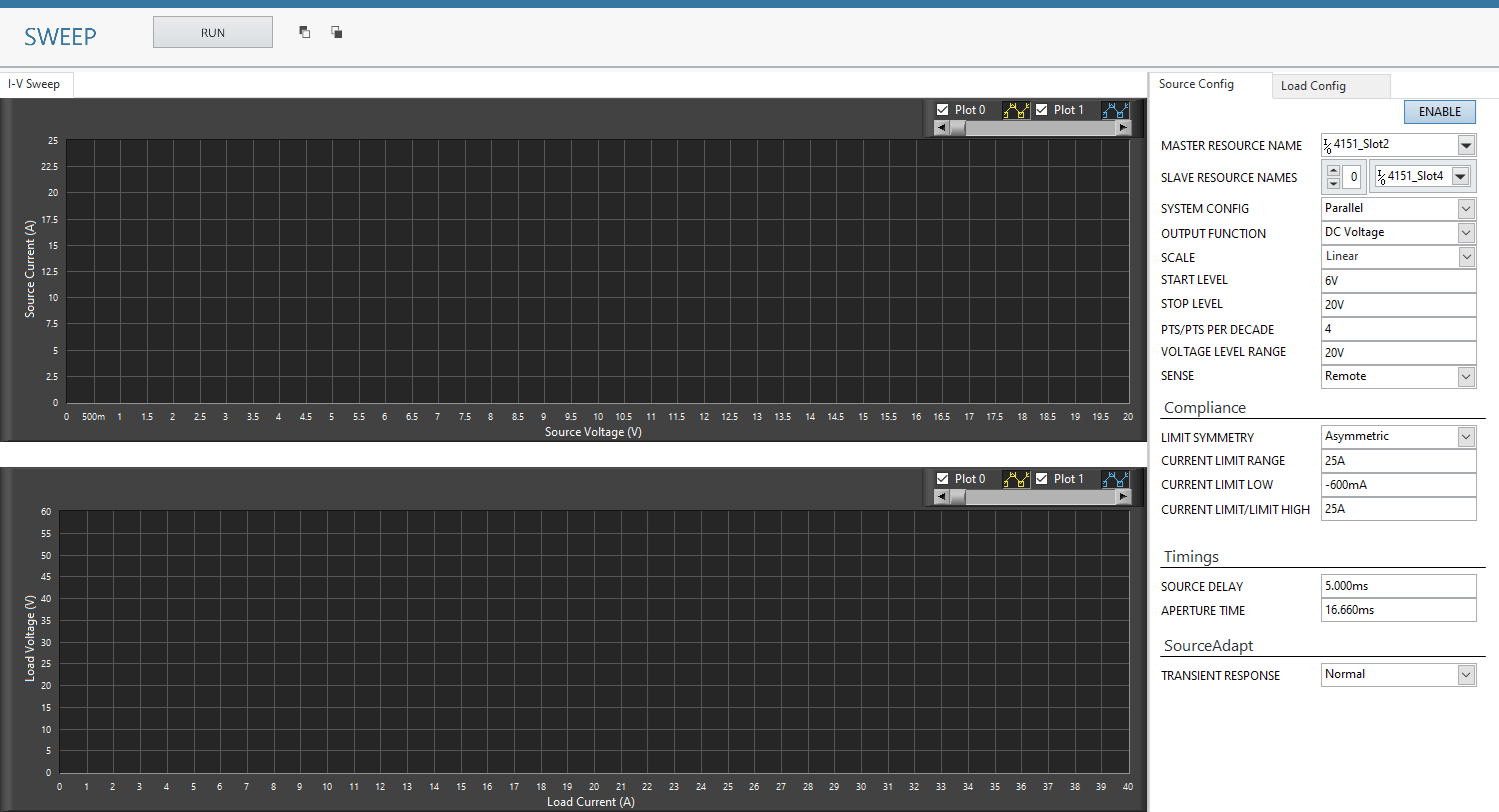
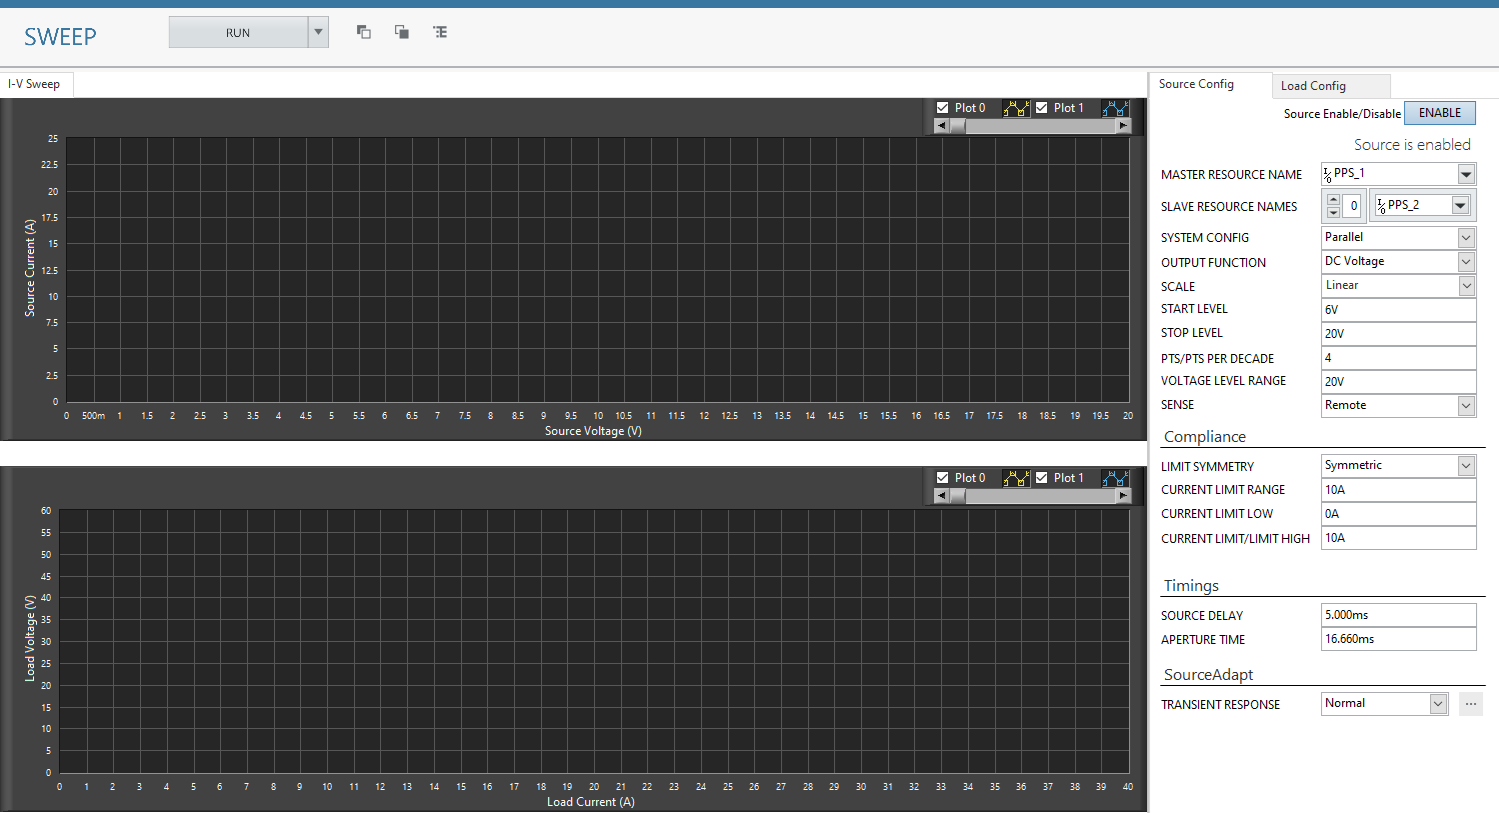
updating documentation
-Updating documentation of all channel ganging measurements as UI is changed
-Adding channel ganging help document which contains steps for custom transient dialog

diff --git a/docs/channel-ganging-help.md b/docs/channel-ganging-help.md
@@ -1,0 +1,30 @@
+# Getting Started
+
+## Workflow
+This workflow is applicable for all the Channel Ganging measurements.
+
+### Adding a measurement panel to InstrumentStudio
+
+1. Open InstrumentStudio
+   ![alt text](images/instr-studio-open-is.png)
+
+2. Click Manual Layout, and select required measurement under the collection (for e.g., 'Single Point' under PMIC - GANGING/STACKING) and 'Create Large Panel' from dropdown. Click OK.
+   ![alt text](images/instr-studio-manual-layout-channel-ganging.png)
+
+3. Single Point channel ganging measurement UI will get displayed on a large panel as shown in the below screenshot.
+   ![alt text](images/instr-studio-single-point-panel.png)
+
+### Custom Transient Response Configuration
+
+1. In any Measurement panel, the default transient response for both source and load is 'Normal'. Custom transient response can be configured by changing the transient response to 'Custom' and the SourceAdapt parameters can be updated by clicking on the three dots icon beside the Transient Response control.
+
+   ![alt text](images/custom-transient-response-button.png)
+
+2. A dialog box will be launched with default SourceAdapt paramerters. 
+   
+   ![alt text](images/custom-transient-response-dialog.png)
+
+3. Update the required parameters. Click on close and the parameters will be updated in the measurement.
+   ![alt text](images/custom-transient-response-dialog-close.png)
+
+Please refer [this](measurements/meas-index.md) for more details on each measurement.

diff --git a/docs/measurements/channel ganging/single-point.md b/docs/measurements/channel ganging/single-point.md
@@ -16,14 +16,10 @@ This service performs Single Point Ganging/Stacking.
 
 3. Run the measurement. The system level and individual voltages and currents are plotted in the graphs.
    
-   System Measurements:
-   ![alt text](../meas-images/single-point-system-meas.png)
+   ![alt text](../meas-images/single-point-meas-results.png)
 
-   Source Results:
-   ![alt text](../meas-images/single-point-source-results.png)
-
-   Load Results:
-   ![alt text](../meas-images/single-point-load-results.png)
+4. To view the individual voltages and currents, click on the eye button and check the plots checkbox.
+   ![alt text](../meas-images/single-point-meas-results-plot-visible.png) 
 
 4. We can run the source and load independently as well. To run configuration of only source devices, make sure that the Enable button is 'ON' in the source configuration and is in 'OFF' position in the load configuration.
    ![alt text](../meas-images/single-point-source-enable.png)
